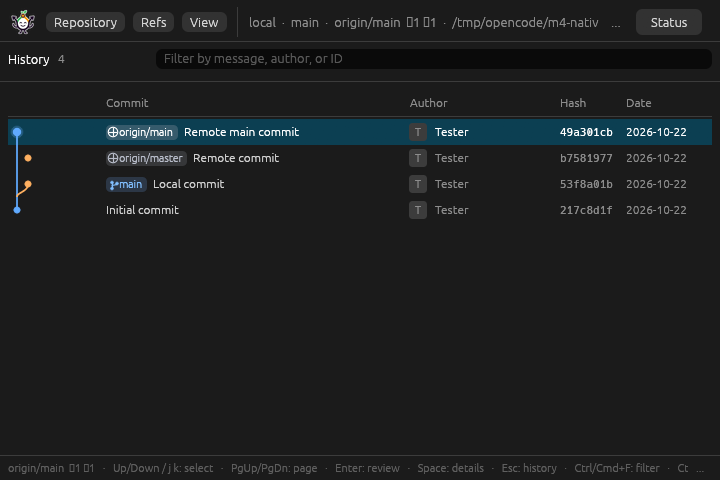
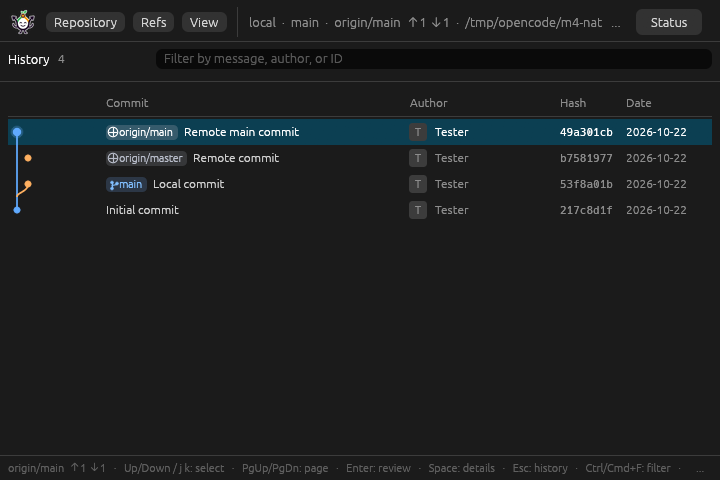
Keep tracking arrows and sync tests font-independent
Use the vendored Phosphor font as a fallback for the default egui families and build tracking labels from its arrow glyphs, so the toolbar and status line do not depend on system font coverage. Normalize cloned worktrees to core.autocrlf=false in sync tests so merges work on Windows. Refresh M4 captures.

Changed region(s): [[0.0917, 0.9688, 0.9472, 1.0], [0.55, 0.0312, 0.8556, 0.0625]]

diff --git a/apps/git-good/src/phosphor.rs b/apps/git-good/src/phosphor.rs
@@ -29,6 +29,13 @@ pub fn install(ctx: &egui::Context) {
         FontFamily::Name(FAMILY.into()),
         vec!["phosphor-icons".to_owned()],
     );
+    for family in [FontFamily::Proportional, FontFamily::Monospace] {
+        fonts
+            .families
+            .entry(family)
+            .or_default()
+            .push("phosphor-icons".to_owned());
+    }
     ctx.set_fonts(fonts);
 }
 
@@ -48,5 +55,38 @@ mod tests {
                 "missing glyph {glyph:?}"
             );
         }
+    }
+
+    #[test]
+    fn default_families_fall_back_to_phosphor_icons() {
+        let ctx = egui::Context::default();
+        install(&ctx);
+        let _ = crate::tests::run_ui(&ctx, egui::RawInput::default(), |_ui| {});
+        for family in [FontFamily::Proportional, FontFamily::Monospace] {
+            let font = egui::FontId::new(11.0, family);
+            for glyph in [ARROW_UP, ARROW_DOWN] {
+                assert!(
+                    ctx.fonts_mut(|fonts| fonts.has_glyphs(&font, glyph)),
+                    "missing fallback glyph {glyph:?}"
+                );
+            }
+        }
+    }
+
+    #[test]
+    fn tracking_label_uses_phosphor_arrows() {
+        let tracking = gg_engine::refs::Tracking {
+            branch: "main".into(),
+            full_name: "refs/heads/main".into(),
+            upstream: "origin/main".into(),
+            upstream_full_name: "refs/remotes/origin/main".into(),
+            remote: "origin".into(),
+            remote_branch: "main".into(),
+            ahead: Some(1),
+            behind: Some(2),
+        };
+        let label = crate::refs_view::tracking_label(&tracking);
+        assert!(label.contains(ARROW_UP), "{label:?}");
+        assert!(label.contains(ARROW_DOWN), "{label:?}");
     }
 }

diff --git a/apps/git-good/src/refs_view.rs b/apps/git-good/src/refs_view.rs
@@ -418,7 +418,12 @@ fn tracking_row(ui: &mut egui::Ui, tracking: &gg_engine::refs::Tracking) {
 
 pub(crate) fn tracking_label(tracking: &gg_engine::refs::Tracking) -> String {
     match (tracking.ahead, tracking.behind) {
-        (Some(ahead), Some(behind)) => format!("{}  ↑{ahead} ↓{behind}", tracking.upstream),
+        (Some(ahead), Some(behind)) => format!(
+            "{}  {}{ahead} {}{behind}",
+            tracking.upstream,
+            crate::phosphor::ARROW_UP,
+            crate::phosphor::ARROW_DOWN
+        ),
         _ => format!("{} · upstream unavailable", tracking.upstream),
     }
 }

diff --git a/crates/git/tests/sync.rs b/crates/git/tests/sync.rs
@@ -90,7 +90,10 @@ fn clone_fetch_push_upstream_and_non_fast_forward() -> Result {
         Some(head(source.path(), "HEAD")?.as_str())
     );
     assert_eq!(git(&target, &["show", "HEAD:a"])?, b"base\n");
+    git(&target, &["config", "core.autocrlf", "false"])?;
+    git(&target, &["reset", "--hard", "HEAD"])?;
     let working = std::fs::read(target.join("a"))?;
+    assert_eq!(working, b"base\n");
     assert!(!progress.is_empty(), "clone produced no progress");
     assert!(
         progress

diff --git a/apps/git-good/tests/cli.rs b/apps/git-good/tests/cli.rs
@@ -1070,6 +1070,8 @@ fn sync_cli_clones_fetches_pushes_and_reports_failures() -> Result {
         std::fs::canonicalize(&target)?
     );
     assert_eq!(git_output(&target, &["show", "HEAD:a"])?, b"base\n");
+    git(&target, &["config", "core.autocrlf", "false"])?;
+    git(&target, &["reset", "--hard", "HEAD"])?;
 
     std::fs::write(source.path().join("a"), b"remote\n")?;
     git(

diff --git a/docs/verification.md b/docs/verification.md
@@ -227,11 +227,11 @@ M3 is complete. Branch deletion/rename, remote tracking, and tag creation remain
 
 Linux x86_64 · Rust 1.99.1 · debug and release builds · local bare remotes.
 
-- 209 workspace tests pass (3 ignored); formatting, Clippy with `-D warnings`, and the debug and release builds pass.
+- 211 workspace tests pass (3 ignored); formatting, Clippy with `-D warnings`, and the debug and release builds pass.
 - egui/eframe moved from 0.33 to 0.37 with wgpu 27 to 30 and the workspace MSRV from 1.94 to 1.95. The native app now uses `App::ui`, root-`Ui` panels, `clamped_offset`, `smooth_scroll_delta`, role-based widget info, `Context::request_screenshot`, and theme-specific styles. Tests run through `Context::run_ui` with a helper that clears unapplied texture deltas.
 - `Cargo.lock` pins a single `windows` 0.62.2 for `wgpu-hal` and `gpu-allocator`, fixing the Windows DX12 build that failed with two `ID3D12Device` types. `cargo check -p wgpu-hal --target x86_64-pc-windows-msvc` passes locally.
-- Sync tests compare cloned blob content through `git show` and compare working bytes before and after fetch, so they pass on Windows with `core.autocrlf=true`.
-- The `egui_phosphor_icons` dependency was removed because its latest release targets egui 0.36. The Phosphor regular font is vendored at `apps/git-good/assets/Phosphor.ttf` with its license; app-owned constants and a dedicated font family keep the tracking arrows and the cancel `X`. A test asserts all three glyphs resolve in the vendored family.
+- Sync tests normalize the cloned worktree to `core.autocrlf=false`, compare cloned blob content through `git show`, and compare working bytes before and after fetch, so they pass on Windows with `core.autocrlf=true`.
+- The `egui_phosphor_icons` dependency was removed because its latest release targets egui 0.36. The Phosphor regular font is vendored at `apps/git-good/assets/Phosphor.ttf` with its license; app-owned constants and a dedicated font family keep the tracking arrows and the cancel `X`. The vendored font is also a fallback for the default proportional and monospace families, so the toolbar and status line render the tracking arrows without depending on system font coverage. Tests assert the explicit family, the default-family fallback, and that the tracking label uses the Phosphor arrows.
 - Tracking tests compare configured remotes, upstreams, and ahead/behind counts with Git for diverged, equal, unrelated, shallow, and missing remote-tracking refs. `git good refs` carries the same remote and tracking snapshot.
 - Local bare-remote tests cover clone, fetch, push, non-fast-forward rejection, `--set-upstream`, option injection, URL redaction, credential-failure detection, cancellation, and repository preservation. CLI tests verify JSON receipts, stderr, and exit status.
 - Branch switching now ignores untracked files when checking cleanliness, so branch-specific ignore rules no longer block a return switch; Git still rejects an untracked file that the target branch would overwrite and the failure leaves the current branch and file intact. Regression tests cover forward/back switching, creation, and the conflicting-file rejection.
